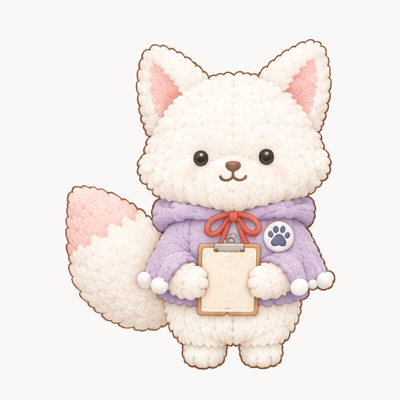
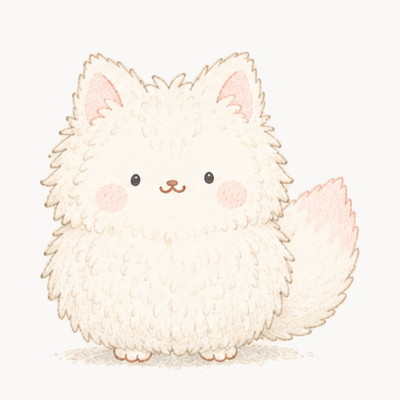
feat: 社員紹介を新キャラクター（もこもこ版）に差し替え、ケロタをココに変更

diff --git a/tests/unit/members.test.ts b/tests/unit/members.test.ts
@@ -7,10 +7,10 @@ import { products } from '../../src/data/products';
 describe('members', () => {
   it('10人が組織図順にそろう', () => {
     expect(members.map((m) => m.id)).toEqual([
-      'konko', 'poko', 'hime', 'kerota', 'moko', 'mike', 'penta', 'piyo', 'holo', 'kumaji',
+      'konko', 'poko', 'hime', 'koko', 'moko', 'mike', 'penta', 'piyo', 'holo', 'kumaji',
     ]);
     expect(members.map((m) => m.name)).toEqual([
-      'コンコ', 'ポコ', 'ヒメ', 'ケロタ', 'モコ', 'ミケ', 'ペンタ', 'ピヨ', 'ホロ', 'クマジ',
+      'コンコ', 'ポコ', 'ヒメ', 'ココ', 'モコ', 'ミケ', 'ペンタ', 'ピヨ', 'ホロ', 'クマジ',
     ]);
   });
   it('id・名前に重複がなく、全項目が空でない', () => {

diff --git a/src/data/members.ts b/src/data/members.ts
@@ -38,13 +38,13 @@ export const members: readonly Member[] = [
     image: 'members/hime.webp',
   },
   {
-    id: 'kerota',
-    name: 'ケロタ',
-    motif: 'かえる',
+    id: 'koko',
+    name: 'ココ',
+    motif: 'フェネック',
     role: 'フロントエンドエンジニア',
-    tagline: '元気で手が速い',
+    tagline: '元気で手が速い。動きの気持ちよさにこだわる',
     career: 'React / Next.js 5年',
-    image: 'members/kerota.webp',
+    image: 'members/koko.webp',
   },
   {
     id: 'moko',

diff --git a/scripts/crop_member_sheets.py b/scripts/crop_member_sheets.py
@@ -1,0 +1,102 @@
+"""キャラクターシート（docs/design/characters/<id>-sheet.png）の「ノーマル」全身を
+public/members/<id>.webp（400x400）に切り出す。ローカルで手動実行する（CI では動かさない）。
+
+使い方:
+    python scripts/crop_member_sheets.py ../../docs/design/characters public/members
+
+処理（crop_members.py の部品を使う）:
+  1. シート左上の「ノーマル」の範囲（x<SEARCH_W, y<SEARCH_H）で、紙の色との差が大きい画素の連結成分を求め、最大のものを本体とする
+     （ハート・きらきら・名前札・手書き文字は別の成分なので落ちる）
+  2. 本体の範囲（穴埋め・少し膨張）だけを残し、足元を基準に 400x400 の窓へ貼る（拡大縮小なし）
+  3. 外周の紙（地色は #F9F8F7 より黄色い）を #F9F8F7 に置き換える
+"""
+import sys
+from pathlib import Path
+
+from PIL import Image, ImageChops, ImageFilter, ImageStat
+
+sys.path.insert(0, str(Path(__file__).parent))
+import crop_members as cm  # noqa: E402
+
+IDS = ["penta", "konko", "poko", "hime", "koko", "moko", "mike", "piyo", "holo", "kumaji"]
+SEARCH_W, SEARCH_H = 540, 575  # 「ノーマル」の列（下の区切り線は y>575）。ラベルや落書きは別の成分になり、最大の成分だけを残す
+THRESHOLD = 14
+SCALE = 0.86  # 一番背の高いキャラ（影込みで約406px）が400角に収まる共通の縮小率（全員同じ率なので大きさの差は保たれる）
+GROW = 5  # 毛先のやわらかい輪郭を残すための膨張（画素）
+
+
+def paper_of(sheet: Image.Image):
+    """紙の地色。枠の外側の帯（下端の余白）の中央値。"""
+    band = sheet.crop((0, sheet.height - 20, sheet.width, sheet.height))
+    return tuple(ImageStat.Stat(band).median)
+
+
+def body_mask(region: Image.Image, ref) -> Image.Image:
+    mask = cm.ink_mask(region, ref, THRESHOLD)
+    labels, sw, sh, n = cm.components(mask, scale=2, bridge=3)
+    sizes = {}
+    for row in labels:
+        for l in row:
+            if l:
+                sizes[l] = sizes.get(l, 0) + 1
+    big = max(sizes, key=sizes.get)
+    lm = Image.new("L", (sw, sh), 0)
+    lp = lm.load()
+    for y in range(sh):
+        for x in range(sw):
+            if labels[y][x] == big:
+                lp[x, y] = 255
+    lm = cm.fill_holes(lm).resize(region.size, Image.NEAREST)
+    return lm.filter(ImageFilter.MaxFilter(GROW * 2 + 1))
+
+
+def make(sheet: Image.Image):
+    ref = paper_of(sheet)
+    region = sheet.crop((0, 0, SEARCH_W, SEARCH_H))
+    own = body_mask(region, ref)
+    region = sheet.crop((0, 0, SEARCH_W, SEARCH_H))
+    ink = cm.ink_mask(region, ref, THRESHOLD)
+    x0, y0, x1, y1 = ImageChops.multiply(own.filter(ImageFilter.MinFilter(GROW * 2 + 1)), ink).getbbox()
+    win = round(cm.SIZE / SCALE)
+    wx0 = (x0 + x1) // 2 - win // 2
+    wy1 = y1 + round(cm.FOOT_MARGIN / SCALE)
+    wy0 = wy1 - win
+    canvas = Image.new("RGB", (win, win), ref)
+    own_only = Image.composite(region, Image.new("RGB", region.size, ref), own)
+    canvas.paste(own_only, (-wx0, -wy0))  # 窓の外は貼られず、はみ出しは切れる
+    # 紙の地色は黄色みがあるので、外周の紙を BG にしたうえで輪郭ぎわもなじませる
+    out = cm.flatten_background(canvas, ref, tol=10)
+    out = out.resize((cm.SIZE, cm.SIZE), Image.LANCZOS)
+    return out, (x1 - x0, y1 - y0)
+
+
+def main() -> int:
+    if len(sys.argv) != 3:
+        print(__doc__)
+        return 2
+    src, out_dir = Path(sys.argv[1]), Path(sys.argv[2])
+    out_dir.mkdir(parents=True, exist_ok=True)
+    problems = []
+    for mid in IDS:
+        sheet = Image.open(src / f"{mid}-sheet.png").convert("RGB")
+        if sheet.size != (1536, 1024):
+            problems.append(f"{mid}: サイズが {sheet.size}")
+            continue
+        img, (w, h) = make(sheet)
+        path = out_dir / f"{mid}.webp"
+        img.save(path, "WEBP", lossless=True, method=6)
+        corners = [img.getpixel(p) for p in [(0, 0), (399, 0), (0, 399), (399, 399)]]
+        if any(c != cm.BG for c in corners):
+            problems.append(f"{mid}: 四隅が背景色と一致しません {corners}")
+        if path.stat().st_size > cm.MAX_BYTES:
+            problems.append(f"{mid}: {path.stat().st_size} バイト（200KB超）")
+        if cm.ink_mask(img.crop((0, 0, 400, 10)), cm.BG, 24).getbbox() is not None:
+            problems.append(f"{mid}: 上端が切れています")
+        print(f"{mid}: {path.stat().st_size // 1024}KB 元の大きさ {w}x{h}")
+    for p in problems:
+        print(" -", p)
+    return 1 if problems else 0
+
+
+if __name__ == "__main__":
+    sys.exit(main())

diff --git a/scripts/make_ogp.py b/scripts/make_ogp.py
@@ -1,10 +1,10 @@
 """OGP 画像（public/ogp.png, 1200x630）を作る。ローカルで手動実行する（CI では動かさない）。
 
 使い方:
-    python scripts/make_ogp.py <元画像のパス> public/ogp.png
+    python scripts/make_ogp.py ../../docs/design/characters/penta-sheet.png public/ogp.png
 
 構図は docs/design/website-design.md 6章。左に文字、右にペンタ。
-ペンタは crop_members.py と同じ処理で元画像から切り出す（拡大しない）。
+ペンタは crop_member_sheets.py と同じ処理（キャラクターシートの「ノーマル」）で切り出した 400 角のカードをそのまま使う。
 HTML を一時フォルダに作り、ヘッドレスの Chrome / Edge でスクリーンショットを撮る。
 新しいパッケージは不要（Pillow と、入っているブラウザだけ）。
 """
@@ -16,7 +16,7 @@ from pathlib import Path
 from PIL import Image
 
 sys.path.insert(0, str(Path(__file__).parent))
-import crop_members as cm  # noqa: E402
+import crop_member_sheets as cms  # noqa: E402
 
 ROOT = Path(__file__).resolve().parent.parent
 FONTS = ROOT / "node_modules/@fontsource/zen-maru-gothic/files"
@@ -49,23 +49,12 @@ PAW = ('<svg width="30" height="30" viewBox="0 0 24 24"><g fill="currentColor"><
        '<circle cx="19.5" cy="10.5" r="2.4"/></g></svg>')
 
 
-def crop_penta(sheet: Image.Image) -> Image.Image:
-    ref = cm.paper_color(sheet)
-    info = cm.locate(sheet, ref)["penta"]
-    card = cm.make_card(sheet, ref, info)
-    x0, y0, x1, y1 = info["bbox"]
-    # 400 角のカードから、キャラの範囲だけ（拡大なし）を取り出す
-    left = (cm.SIZE - (x1 - x0)) // 2
-    top = cm.SIZE - cm.FOOT_MARGIN - (y1 - y0)
-    return card.crop((left - 8, top - 8, left + (x1 - x0) + 8, top + (y1 - y0) + 8))
-
-
 def main() -> int:
     if len(sys.argv) != 3:
         print(__doc__)
         return 2
     sheet = Image.open(sys.argv[1]).convert("RGB")
-    penta = crop_penta(sheet)
+    penta, _ = cms.make(sheet)
     browser = next((b for b in BROWSERS if Path(b).exists()), None)
     if not browser:
         print("Chrome / Edge が見つかりません")
@@ -73,7 +62,7 @@ def main() -> int:
     with tempfile.TemporaryDirectory() as tmp:
         tmp = Path(tmp)
         penta.save(tmp / "penta.png")
-        html = HTML % {"f": (FONTS.as_uri()), "img": "penta.png", "r": 140, "b": 64, "paws": PAW * 3}
+        html = HTML % {"f": (FONTS.as_uri()), "img": "penta.png", "r": 120, "b": 100, "paws": PAW * 3}
         (tmp / "ogp.html").write_text(html, encoding="utf-8")
         out = Path(sys.argv[2]).resolve()
         subprocess.run([browser, "--headless", "--disable-gpu", "--hide-scrollbars",
@@ -81,7 +70,7 @@ def main() -> int:
                        check=True, capture_output=True)
     img = Image.open(sys.argv[2])
     size = Path(sys.argv[2]).stat().st_size
-    print(f"ペンタ {penta.size}（元の大きさのまま） ogp {img.size} {size // 1024}KB")
+    print(f"ペンタ {penta.size} ogp {img.size} {size // 1024}KB")
     if img.size != (W, H) or size > MAX_BYTES:
         print("検証に失敗")
         return 1
